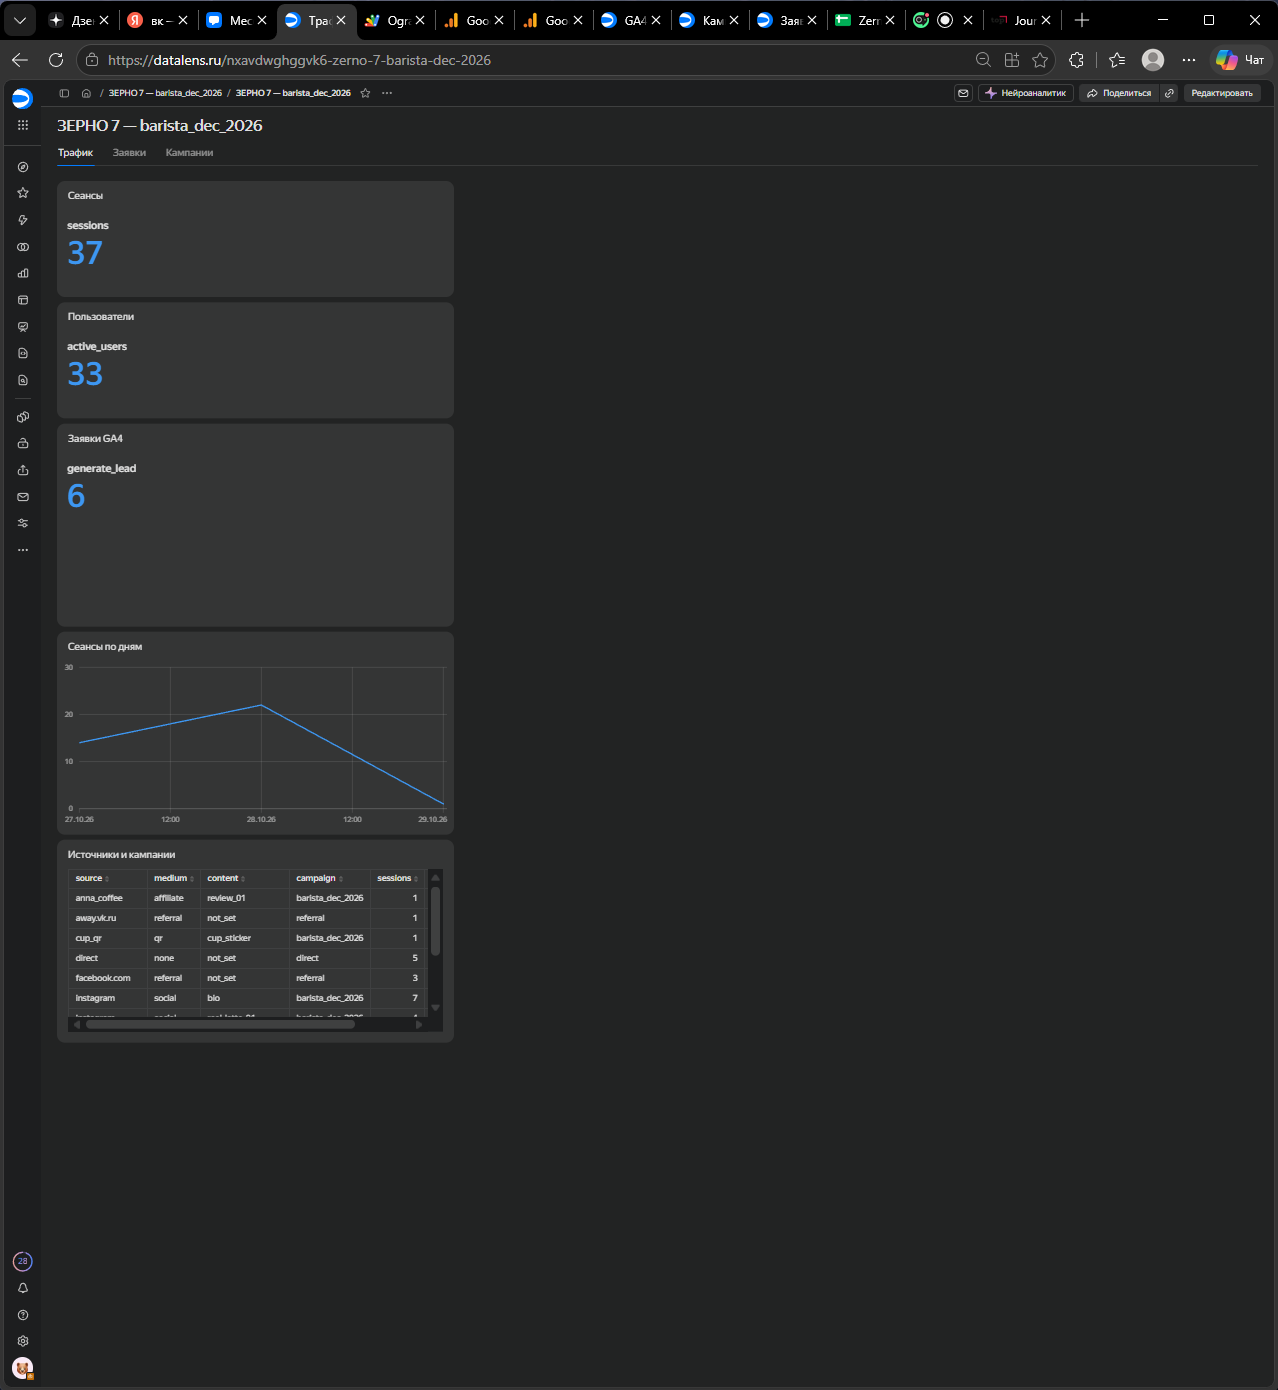
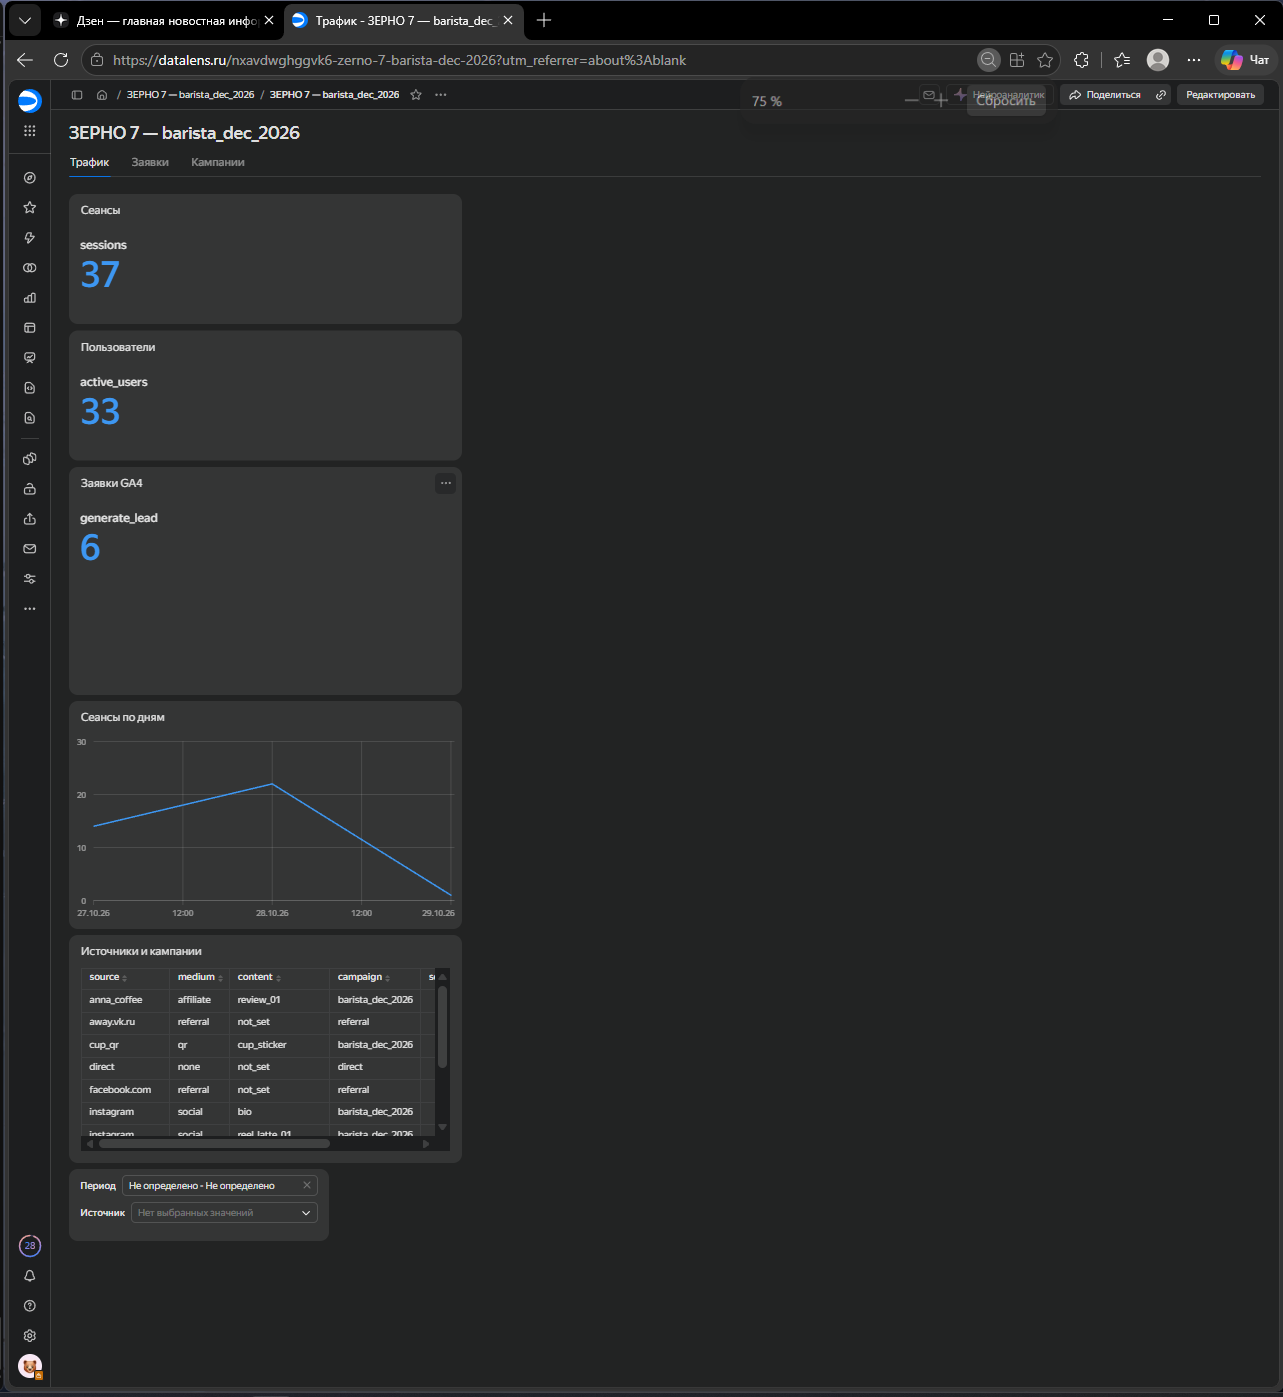
DataLens: селекторы периода, источника и статуса

diff --git a/README.md b/README.md
@@ -18,7 +18,7 @@
 
 Аналитика: отчёты GA4 — `screens/reports/`, исследования — `screens/explore/`, DebugView и настройки — `screens/ga4/`, выгрузки и записка — `docs/reports/`, `docs/report.md`.
 
-DataLens: подключение Google Sheets `Zerno7 Sheets`, датасеты `GA4` (ga4_traffic + ga4_leads, левое соединение по date, source, campaign) и `Заявки` (лист leads, поля name, phone, email скрыты), 11 чартов, дашборд на 3 вкладки: «Трафик», «Заявки», «Кампании». Снимки вкладок — `screens/datalens/`.
+DataLens: подключение Google Sheets `Zerno7 Sheets`, датасеты `GA4` (ga4_traffic + ga4_leads, левое соединение по date, source, campaign) и `Заявки` (лист leads, поля name, phone, email скрыты), 11 чартов, дашборд на 3 вкладки: «Трафик», «Заявки», «Кампании». Селекторы: «Период» и «Источник» на вкладке «Трафик», «Статус» на вкладке «Заявки». Снимки вкладок — `screens/datalens/`.
 
 Идентификатор ресурса GA4: `G-QKNW25FRB5`
 
@@ -53,7 +53,7 @@ DataLens: подключение Google Sheets `Zerno7 Sheets`, датасеты
 - Реальные ВКонтакте, Telegram и YouTube не создавались (с разрешения преподавателя) — только UTM-ссылки и короткие ссылки.
 - «Настройки атрибуции» — в русском интерфейсе GA4 (октябрь 2026) такого пункта нет; в записке указаны значения по умолчанию.
 - Специальная статистика: в сегменте оповещения GA4 доступен только «Источник первого взаимодействия», а не «Источник сеанса», поэтому условие «сеансы из Instagram упали на 50 %» в точности не задать. Сделано оповещение «0 ключевых событий за день».
-- DataLens: селекторы периода, источника и статуса на дашборд не добавлены — не хватило времени до сдачи. Доступ «Просмотр» заказчику не выдан: e-mail неизвестен.
+- DataLens: доступ «Просмотр» заказчику не выдан — e-mail неизвестен.
 - Данные в отчётах тестовые и малые (27–29.10.2026), выводы предварительные.
 
 Нейросеть использовалась для: написания кода сайта и Apps Script, реестра UTM, QR-кода и афиши, пошаговых инструкций по GA4, ManyChat и DataLens, настройки отчётов и исследований GA4 через браузер, выгрузки данных в Google-таблицу и черновика аналитической записки. Журнал запросов — `docs/prompts.md`.
